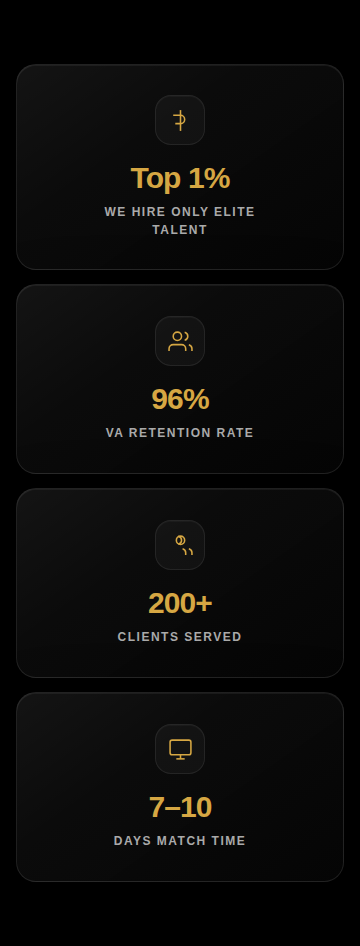
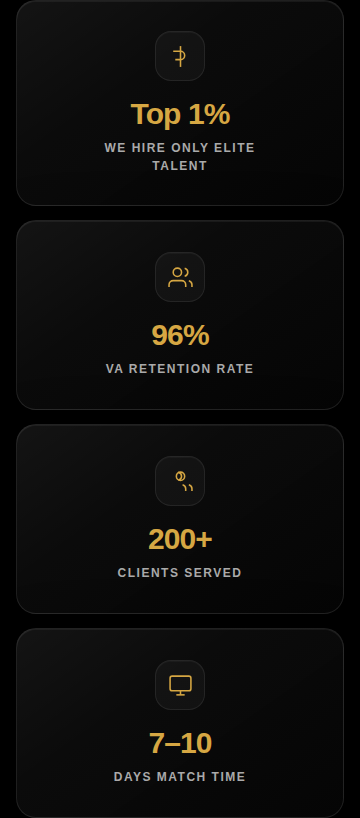
Team stats: remove top/bottom padding (spacing set in GHL)
Claude-Session: https://claude.ai/code/session_01EBtb9GCsShS6bxd8Mop7wv

diff --git a/output/sas-team-stats.html b/output/sas-team-stats.html
@@ -106,7 +106,7 @@
     /* Layout */
     --sas-gutter: clamp(20px, 4vw, 64px);
     --sas-max: 1440px;
-    --sas-section-y: clamp(64px, 7vw, 110px);
+    --sas-section-y: 0px;               /* top/bottom spacing is set in GHL */
 
     /* Motion */
     --sas-ease: cubic-bezier(0.22, 1, 0.36, 1);
